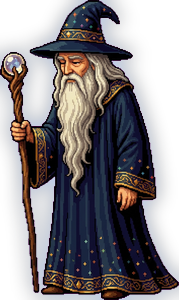
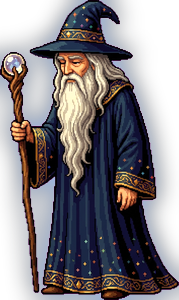
Deel 2: zwaard/raaf-bugfix, hemelschijf op het zonnestelsel (moeilijker), tekens op het boek, boek geeft onzichtbaarheid, duidelijker trip-effect
Binnenplaats (bugfix):
- Alle combinaties zwaard x raaf als bgVariants: munt aan de raaf geven laat het gesmede
  zwaard NIET meer verdwijnen (raven-sword.jpg), en na het inleveren bij de schildknaap
  is het tentoongestelde zwaard ook zichtbaar terwijl de raaf in de emmer zit

Bibliotheek — nieuwe flow:
- De HEMELSCHIJF zit nu op het ZONNESTELSEL op de sokkel (nieuwe orrery-hotspot), niet
  meer op het boek; moeilijker: 10 posities en GEKOPPELDE ringen (zon sleept maan mee,
  maan sleept ster mee) + na het oplossen zie je een spreuk-pagina met tekens en
  'Umbra Solis' (spell-eclipse-page.jpg)
- Tijdens de zonsverduistering gloeien de drie blauwe tekens nu OOK op het boek in de
  achtergrond (in scene-library-night.jpg gebakken)
- Het boek is een puzzel op zichzelf (signsBook): los de tekens-puzzel op en je krijgt
  de ONZICHTBAARHEIDSSPREUK direct uit het boek
- Het sterren-altaar opent daarna alleen nog de geheime deur (geen dubbele spreuk)
- De raaf hint elke stap: paddenstoelen -> zonnestelsel -> raam -> boek -> altaar -> kerker

Tovenaar-trip duidelijker:
- Sterkere blauwe aura in de trance-frames + pulserende halo en 8 zwevende twinkels
  (engine), en iets meer waggelen (aweSwayMul 2.0 -> 3.0)

Engine: signsBook-dispatch, symbolPuzzle met array-setFlag (ook altaar-done-check gefixt),
eclipsePuzzle linked + solvedZoom. Quests herschikt op de nieuwe volgorde. Cache deel2 v138.

diff --git a/games/ravenholt-deel2/js/data.js b/games/ravenholt-deel2/js/data.js
@@ -14,7 +14,7 @@ const GAME = {
   title:      { nl: 'Fluisteringen van Ravenholt — Deel 2', en: 'Whispers of Ravenholt — Part 2' },
   titleLines: { nl: ['Fluisteringen', 'van Ravenholt', '· Deel 2 ·'], en: ['Whispers of', 'Ravenholt', '· Part 2 ·'] },
   startScene: 'courtyard',
-  assetVer: '137',
+  assetVer: '138',
 
   /* Finn — vaste figuur: roodharige jongen, blauwe kapmantel, leren tas, houten staf.
      idle = hero, lopen = 4-frame loopsheet (heroWalkSheet), zwaaien = heroWave.
@@ -129,11 +129,11 @@ const GAME = {
     q_usekey:   { nl: 'Gebruik de sleutel op het slot onder de leeuwenkop van de fontein om de geheime poort te openen', en: 'Use the key on the lock beneath the fountain’s lion head to open the secret gate' },
     q_through:  { nl: 'De geheime poort staat open naast de leeuwenfontein — stap erdoorheen, de donkere gang in', en: 'The secret gate stands open beside the lion fountain — step through it, into the dark passage' },
     q_library:  { nl: 'Door de geheime poort kom je in de kasteelbibliotheek. Een oude tovenaar bewaakt het gloeiende boek — de raaf op de vensterbank weet vast raad (psst: hij fluistert iets over paddenstoelen bij de put)', en: 'Through the secret gate you reach the castle library. An old wizard guards the glowing book — the raven on the windowsill surely knows a trick (psst: he whispers something about mushrooms by the well)' },
-    q_takespell:{ nl: 'De tovenaar zweeft in hogere sferen — kijk nu in het gloeiende boek op de lessenaar: daar wacht de Zonsverduistering-spreuk', en: 'The wizard floats among the stars — look in the glowing book on the lectern: the Solar Eclipse spell awaits' },
+    q_takespell:{ nl: 'De tovenaar zweeft in hogere sferen — bekijk het ZONNESTELSEL op de sokkel rechts en draai de hemelschijf: daar wacht de Zonsverduistering-spreuk', en: 'The wizard floats among the stars — examine the SOLAR SYSTEM on the pedestal to the right and turn the celestial disc: the Solar Eclipse spell awaits' },
     q_castEclipse:{ nl: 'Je hebt de Zonsverduistering-spreuk! Tik hem aan in je tas en spreek hem uit bij het grote raam van de bibliotheek', en: 'You have the Solar Eclipse spell! Tap it in your bag and speak it at the great library window' },
     q_telescope:{ nl: 'De zon is verduisterd en de sterren fonkelen — kijk snel door de telescoop bij het raam!', en: 'The sun is darkened and the stars sparkle — quick, look through the telescope by the window!' },
-    q_readbook: { nl: 'De zon is verduisterd! Alléén nu kun je het gloeiende boek lezen — tik het aan en bekijk de drie blauwe geheime tekens van de onzichtbaarheidsspreuk', en: 'The sun is eclipsed! Only now can you read the glowing book — tap it and study the three blue secret signs of the invisibility spell' },
-    q_altar:    { nl: 'Je zag drie blauwe tekens in het boek: Ψ ♃ ♄. Zet ze op het sterren-altaar rechts in de bibliotheek — elk teken in het gouden vakje — en trek aan de hendel', en: 'You saw three blue signs in the book: Ψ ♃ ♄. Set them on the star altar at the right of the library — each sign in its golden box — and pull the lever' },
+    q_readbook: { nl: 'De zon is verduisterd — er gloeien blauwe tekens op het boek! Alléén nu kun je het lezen: tik het aan en los de tekens-puzzel op voor de ONZICHTBAARHEIDSSPREUK', en: 'The sun is eclipsed — blue signs glow on the book! Only now can you read it: tap it and solve the signs puzzle for the INVISIBILITY SPELL' },
+    q_altar:    { nl: 'De onzichtbaarheidsspreuk is binnen! Open nu de geheime deur: zet de drie blauwe tekens Ψ ♃ ♄ op het sterren-altaar — elk in het gouden vakje — en trek aan de hendel', en: 'The invisibility spell is yours! Now open the secret door: set the three blue signs Ψ ♃ ♄ on the star altar — each in its golden box — and pull the lever' },
     q_dungeon:  { nl: 'De geheime deur staat open! Daal de trap af naar de kerker. Een wachter verspert de weg naar de gevangene — tik de onzichtbaarheidsspreuk aan om ongezien langs hem te sluipen', en: 'The secret door is open! Descend the stair to the dungeon. A guard blocks the way to the prisoner — tap the invisibility spell to slip past him unseen' },
     q_freefather:{ nl: 'Je bent onzichtbaar langs de wachter! Praat met de gevangene bij de tralies — hij fluistert de volgorde van het kerkerslot: zon, maan, ster... en het teken van zijn staf', en: 'You slipped past the guard unseen! Talk to the prisoner at the bars — he whispers the order of the dungeon lock: sun, moon, star... and the sign of his staff' },
     q_done:     { nl: 'De prinses herkende het wapen van het medaillon... (wordt vervolgd in Deel 2)', en: 'The princess recognised the medallion’s crest... (to be continued in Part 2)' },
@@ -153,7 +153,7 @@ const GAME = {
     staff: { name: { nl: 'Vaders Staf', en: 'Father’s Staff' }, icon: '🪄', img: 'assets/art/item-staff.png',
              look: { nl: 'De houten staf van mijn vader. Hij voelt vertrouwd in je hand — met de juiste spreuk in je boek kun je hem laten werken.', en: 'My father’s wooden staff. It feels familiar in your hand — with the right spell in your book you can make it work.' } },
     invisspell: { name: { nl: 'Onzichtbaarheidsspreuk', en: 'Invisibility Spell' }, icon: '👻', img: 'assets/art/item-invisspell.png', sparkle: true, border: 'blue',
-             look: { nl: 'De onzichtbaarheidsspreuk uit het sterren-altaar in de kasteelbibliotheek. De letters lijken weg te vagen terwijl je kijkt — wie weet welke deuren dit in Deel 3 opent...', en: 'The invisibility spell from the star altar in the castle library. Its letters seem to fade away as you watch — who knows what doors this opens in Part 3...' } },
+             look: { nl: 'De onzichtbaarheidsspreuk uit het gloeiende boek — gelezen bij het licht van de zonsverduistering. De letters lijken weg te vagen terwijl je kijkt... Spreek hem uit waar een bewaker je níet mag zien. (Tik de spreuk aan om hem uit te spreken.)', en: 'The invisibility spell from the glowing book — read by the light of the solar eclipse. Its letters seem to fade away as you watch... Speak it where a guard must not see you. (Tap the spell to cast it.)' } },
     eclipsspell: { name: { nl: 'Zonsverduistering-spreuk', en: 'Solar Eclipse Spell' }, icon: '🌑', img: 'assets/art/item-eclipsspell.png', border: 'blue',
              look: { nl: 'De Spreuk van de Zonsverduistering — “Umbra Solis” — uit het gloeiende boek. Spreek hem uit bij het grote raam van de bibliotheek en de zon dooft, zodat de sterren zich overdag tonen. (Tik de spreuk aan om hem uit te spreken.)', en: 'The Spell of the Solar Eclipse — “Umbra Solis” — from the glowing book. Speak it at the great library window and the sun goes dark, so the stars show themselves by day. (Tap the spell to cast it.)' } },
     hammer: { name: { nl: 'Smidshamer', en: 'Blacksmith’s Hammer' }, icon: '🔨', img: 'assets/art/item-hammer.png',
@@ -256,9 +256,9 @@ const GAME = {
 
   questRules: [
     { when: { flag: 'guardPassed', notFlag: 'fatherFreed' },             quest: 'q_freefather' },    // onzichtbaar langs de wachter -> open het kerkerslot bij de cel
-    { when: { flag: 'gotInvisSpell', notFlag: 'fatherFreed' },           quest: 'q_dungeon' },       // spreuk + open deur -> daal af in de kerker en word onzichtbaar langs de wachter
-    { when: { flag: 'sawSigns', notFlag: 'gotInvisSpell' },              quest: 'q_altar' },         // blauwe tekens gezien -> zet ze op het sterren-altaar
-    { when: { flag: 'eclipseActive', notFlag: 'sawSigns' },              quest: 'q_readbook' },      // eclips actief -> lees nu de blauwe tekens in het gloeiende boek
+    { when: { flag: 'altarSolved', notFlag: 'fatherFreed' },             quest: 'q_dungeon' },       // geheime deur open -> daal af in de kerker en word onzichtbaar langs de wachter
+    { when: { flag: 'gotInvisSpell', notFlag: 'altarSolved' },           quest: 'q_altar' },         // spreuk binnen -> open de geheime deur met de drie tekens + hendel
+    { when: { flag: 'eclipseActive', notFlag: 'gotInvisSpell' },         quest: 'q_readbook' },      // eclips actief -> los de tekens-puzzel in het gloeiende boek op
     { when: { flag: 'gotEclipseSpell', notFlag: 'eclipseActive' },       quest: 'q_castEclipse' },   // spreuk binnen -> spreek hem uit
     { when: { flag: 'wizardTripping', notFlag: 'gotEclipseSpell' },      quest: 'q_takespell' },     // tovenaar in trance -> kijk in het gloeiende boek
     { when: { flag: 'secretGateOpen', notFlag: 'gotInvisSpell' },        quest: 'q_library' },       // poort open -> de bibliotheek in, geef de tovenaar de paddenstoelen
@@ -294,10 +294,14 @@ const GAME = {
       name: { nl: 'De Binnenplaats', en: 'The Courtyard' },
       bg: 'assets/art/scene-courtyard.jpg',
       bgVariants: [
-        // eerste passende wint
-        { img: 'assets/art/scene-courtyard-raven-swordgone.jpg', flags: ['ravenInBucket'], notFlags: ['gotNecklace'] },  // raaf in de put -> lege rek
-        { img: 'assets/art/scene-courtyard-sword.jpg',           flags: ['squireGaveRope'] },                            // zwaard ingeleverd bij de schildknaap -> tentoongesteld
-        { img: 'assets/art/scene-courtyard-swordgone.jpg',       flags: ['squireGaveSword'] }                            // gebroken zwaard gekregen -> rek leeg (smeden verandert dit niet)
+        // eerste passende wint — het zwaard-op-de-standaard en de raaf-in-de-emmer zijn onafhankelijke toestanden, dus alle combinaties:
+        { img: 'assets/art/scene-courtyard-raven-sword.jpg',     flags: ['ravenInBucket', 'squireGaveRope'],  notFlags: ['gotNecklace'] },              // raaf in de emmer + zwaard ingeleverd -> tentoongesteld
+        { img: 'assets/art/scene-courtyard-raven-sword.jpg',     flags: ['ravenInBucket', 'swordForged'],     notFlags: ['gotNecklace', 'gotSword'] },   // raaf in de emmer + gesmeed zwaard wacht bij de tent (nog niet gepakt!)
+        { img: 'assets/art/scene-courtyard-raven-swordgone.jpg', flags: ['ravenInBucket', 'squireGaveSword'], notFlags: ['gotNecklace'] },              // raaf in de emmer + zwaard in je tas -> lege standaard
+        { img: 'assets/art/scene-courtyard-raven.jpg',           flags: ['ravenInBucket'],                    notFlags: ['gotNecklace'] },              // raaf in de emmer, zwaard nog onaangeroerd
+        { img: 'assets/art/scene-courtyard-sword.jpg',           flags: ['squireGaveRope'] },                                                           // zwaard ingeleverd bij de schildknaap -> tentoongesteld
+        { img: 'assets/art/scene-courtyard-sword.jpg',           flags: ['swordForged'],                      notFlags: ['gotSword'] },                 // net gesmeed: het zwaard glanst bij de tent tot je het pakt
+        { img: 'assets/art/scene-courtyard-swordgone.jpg',       flags: ['squireGaveSword'] }                                                           // gebroken zwaard gekregen/onderweg -> standaard leeg
       ],
       charFilter: 'saturate(1.07) brightness(1.01) sepia(0.17) contrast(1.03)',   // warm gouden ochtendlicht zodat de figuren in de binnenplaats opgaan
       heroShade: 0.95,
@@ -796,7 +800,7 @@ const GAME = {
       overlays: [],
       fx: {},
       npcs: [
-        { id: 'librarian', sprite: 'librarian', x: 188, y: 260, scale: 0.86, sway: 0.014, aweSwayMul: 2.0, aweSwayMs: 1350, flip: true, filter: 'brightness(0.64) saturate(0.86)', aweSprites: ['librarian-trip1', 'librarian-trip2'], aweFlag: 'wizardTripping' },   // de pixel-tovenaar — donker, zachte wieg; onder hypnose een rustige, iets bredere schommel + zwevende twinkels (engine)
+        { id: 'librarian', sprite: 'librarian', x: 188, y: 260, scale: 0.86, sway: 0.014, aweSwayMul: 3.0, aweSwayMs: 1250, flip: true, filter: 'brightness(0.64) saturate(0.86)', aweSprites: ['librarian-trip1', 'librarian-trip2'], aweFlag: 'wizardTripping' },   // de pixel-tovenaar — donker; onder hypnose duidelijk waggelen + halo en twinkels (engine)
         { id: 'libRaven', sprite: 'ravenPerch', x: 366, y: 155, scale: 1.02, flip: false, peck: true, peckAmt: 0.3 }                               // de raaf op de vensterbank — flink groter, 5px lager
       ],
       worldItems: [],
@@ -823,17 +827,17 @@ const GAME = {
           name: { nl: 'De Raaf', en: 'The Raven' },
           rect: { x: 338, y: 118, w: 42, h: 58 },
           walkTo: { x: 344, y: 252 },
-          look: (state) => state.flags.gotInvisSpell
-            ? { nl: '\u201CKrra! Goed gedaan, kleine tovenaar. De sterren vergeten jou niet.\u201D De raaf buigt plechtig zijn kopje.', en: '\u201CCaw! Well done, little wizard. The stars will not forget you.\u201D The raven bows his head solemnly.' }
-            : state.flags.sawSigns
-            ? { nl: '\u201CKrra! Je z\u00E1g ze \u2014 de drie blauwe tekens in het boek! Zet ze op het sterren-altaar daar rechts, alle drie in het gouden vakje, en trek aan de hendel.\u201D', en: '\u201CCaw! You SAW them \u2014 the three blue signs in the book! Set them on the star altar to the right, all three in the golden box, and pull the lever.\u201D' }
+          look: (state) => state.flags.altarSolved
+            ? { nl: '\u201CKrra! De geheime deur staat open \u2014 de trap af, de kerker in! En onthoud: wat een wachter niet z\u00EDet, kan hij niet tegenhouden...\u201D', en: '\u201CCaw! The secret door stands open \u2014 down the stairs, into the dungeon! And remember: what a guard cannot SEE, he cannot stop...\u201D' }
+            : state.flags.gotInvisSpell
+            ? { nl: '\u201CKrra! De onzichtbaarheidsspreuk is van jou! Zet nu de drie blauwe tekens op het sterren-altaar daar rechts \u2014 elk in het gouden vakje \u2014 en trek aan de hendel: dan zwaait de geheime deur open.\u201D', en: '\u201CCaw! The invisibility spell is yours! Now set the three blue signs on the star altar to the right \u2014 each in its golden box \u2014 and pull the lever: the secret door will swing open.\u201D' }
             : state.flags.eclipseActive
-            ? { nl: '\u201CKrra! De zon is gedoofd \u2014 lees N\u00DA het gloeiende boek, voordat het licht terugkeert! De blauwe tekens tonen zich alleen in het donker.\u201D', en: '\u201CCaw! The sun is dark \u2014 read the glowing book NOW, before the light returns! The blue signs only show in the dark.\u201D' }
+            ? { nl: '\u201CKrra! De zon is gedoofd \u2014 kijk, er gloeien blauwe tekens op het gloeiende boek! Lees het N\u00DA en los de tekens-puzzel op, voordat het licht terugkeert.\u201D', en: '\u201CCaw! The sun is dark \u2014 look, blue signs glow on the glowing book! Read it NOW and solve the signs puzzle, before the light returns.\u201D' }
             : state.flags.gotEclipseSpell
-            ? { nl: '\u201CKrra! Je hebt de spreuk! Tik hem aan in je tas en spreek hem uit \u2014 dan dooft de zon en tonen de sterren zich.\u201D', en: '\u201CCaw! You have the spell! Tap it in your bag and speak it \u2014 the sun will darken and the stars will show themselves.\u201D' }
+            ? { nl: '\u201CKrra! Je hebt de spreuk! Tik hem aan in je tas en spreek hem uit \u2014 dan dooft de zon en tonen de geheime tekens zich in het boek.\u201D', en: '\u201CCaw! You have the spell! Tap it in your bag and speak it \u2014 the sun will darken and the secret signs will show in the book.\u201D' }
             : state.flags.wizardTripping
-            ? { nl: '\u201CKrra! Moet je hem zien zweven... Sn\u00E9l, kijk nu in het gloeiende boek \u2014 de spreuk van de zonsverduistering wacht op je!\u201D', en: '\u201CCaw! Look at him float... Quick, look in the glowing book now \u2014 the eclipse spell awaits you!\u201D' }
-            : { nl: 'De raaf zit parmantig op de vensterbank. \u201CKrra! Die oude tovenaar wijkt geen duimbreed van dat boek... Maar ik weet w\u00E1t hij niet kan weerstaan: paddenstoelen! Van die glimmende, bij de oude put op de binnenplaats.\u201D', en: 'The raven perches proudly on the windowsill. \u201CCaw! That old wizard will not budge an inch from that book... But I know what he cannot resist: mushrooms! The shiny kind, by the old well in the courtyard.\u201D' }
+            ? { nl: '\u201CKrra! Moet je hem zien zweven... Sn\u00E9l \u2014 kijk naar het ZONNESTELSEL op de sokkel rechts! Draai de hemelschijf tot zon, maan en ster op \u00E9\u00E9n lijn staan \u2014 d\u00E1\u00E1r zit de zonsverduistering-spreuk in.\u201D', en: '\u201CCaw! Look at him float... Quick \u2014 look at the SOLAR SYSTEM on the pedestal to the right! Turn the celestial disc until sun, moon and star line up \u2014 that is where the eclipse spell hides.\u201D' }
+            : { nl: 'De raaf zit parmantig op de vensterbank. \u201CKrra! Die oude tovenaar wijkt geen duimbreed van zijn instrumenten... Maar ik weet w\u00E1t hij niet kan weerstaan: paddenstoelen! Van die glimmende, bij de oude put op de binnenplaats.\u201D', en: 'The raven perches proudly on the windowsill. \u201CCaw! That old wizard will not budge an inch from his instruments... But I know what he cannot resist: mushrooms! The shiny kind, by the old well in the courtyard.\u201D' }
         },
         {
           id: 'shelves',
@@ -863,53 +867,68 @@ const GAME = {
           name: { nl: 'Het Gloeiende Boek', en: 'The Glowing Book' },
           rect: { x: 228, y: 122, w: 92, h: 94 },
           walkTo: { x: 300, y: 256 },
-          look: (state) => (state.flags.gotEclipseSpell && state.flags.sawSigns)
-            ? { nl: 'In het boek gloeien drie blauwe tekens na: \u03a8 \u2643 \u2644. Precies die drie moeten op het sterren-altaar rechts.', en: 'Three blue signs glow in the book: \u03a8 \u2643 \u2644. Those three belong on the star altar to the right.' }
+          look: (state) => state.flags.gotInvisSpell
+            ? { nl: 'In het boek gloeien de drie blauwe tekens na: \u03a8 \u2643 \u2644. Precies die drie moeten op het sterren-altaar rechts \u2014 trek daarna aan de hendel.', en: 'Three blue signs glow in the book: \u03a8 \u2643 \u2644. Those three belong on the star altar to the right \u2014 then pull the lever.' }
             : (state.flags.gotEclipseSpell && state.flags.eclipseActive)
-            ? { nl: 'Nu de zon verduisterd is, lichten er blauwe geheime tekens op tussen de bladzijden \u2014 de sleutel tot de onzichtbaarheidsspreuk. Lees ze!', en: 'Now that the sun is darkened, blue secret signs light up between the pages \u2014 the key to the invisibility spell. Read them!' }
+            ? { nl: 'Nu de zon verduisterd is, gloeien er blauwe geheime tekens op de bladzijden \u2014 de sleutel tot de ONZICHTBAARHEIDSSPREUK. Lees het boek en los de tekens-puzzel op!', en: 'Now that the sun is darkened, blue secret signs glow on the pages \u2014 the key to the INVISIBILITY SPELL. Read the book and solve the signs puzzle!' }
             : state.flags.gotEclipseSpell
-            ? { nl: 'Het grote boek is uitgedoofd. Bij gewoon daglicht zie je alleen vage krabbels \u2014 maar toen de zon verduisterde, leken er tekens op te gloeien... Verduister de zon opnieuw om ze te lezen.', en: 'The great book has gone dark. In plain daylight you see only faint scribbles \u2014 but when the sun was eclipsed, signs seemed to glow... Darken the sun again to read them.' }
+            ? { nl: 'Bij daglicht toont het grote boek alleen vage krabbels \u2014 maar bij een zonsverduistering gloeien er tekens op... Spreek de zonsverduistering-spreuk uit bij het raam en lees d\u00e1n het boek.', en: 'In daylight the great book shows only faint scribbles \u2014 but during a solar eclipse signs glow up... Cast the eclipse spell at the window, then read the book.' }
             : state.flags.wizardTripping
-            ? { nl: 'Het boek slaat vanzelf open bij een pagina vol sterren: de Spreuk van de Zonsverduistering! Pak hem nu de tovenaar in hogere sferen is.', en: 'The book falls open at a page full of stars: the Spell of the Solar Eclipse! Take it while the wizard is away with the stars.' }
+            ? { nl: 'Het boek gloeit zacht, maar de bladzijden tonen enkel vreemde krabbels. In de kantlijn staat een kleine tekening: het ZONNESTELSEL op de sokkel, met draaiende ringen eromheen... Bekijk dat zonnestelsel eens!', en: 'The book glows softly, but its pages show only strange scribbles. In the margin sits a small drawing: the SOLAR SYSTEM on the pedestal, with turning rings around it... Take a look at that solar system!' }
             : { nl: 'Een groot boek op de lessenaar gloeit zacht. De tovenaar houdt het scherp in de gaten \u2014 je durft het niet aan te raken.', en: 'A great book on the lectern glows softly. The wizard watches it sharply \u2014 you dare not touch it.' },
+          signsBook: {                                     // HET BOEK IS ZELF EEN PUZZEL: alleen leesbaar bij verduistering; oplossen = de onzichtbaarheidsspreuk
+            requiresFlag: 'gotEclipseSpell',
+            blockedText: (state) => state.flags.wizardTripping
+              ? { nl: 'Je bladert door het boek: vreemde krabbels, en \u00e9\u00e9n tekeningetje van het zonnestelsel op de sokkel met draaiende ringen. D\u00e1\u00e1r moet je zijn \u2014 bekijk het zonnestelsel!', en: 'You leaf through the book: strange scribbles, and one little drawing of the solar system on the pedestal with turning rings. That is where to go \u2014 look at the solar system!' }
+              : { nl: '\u201cNiemand raakt de sterrenspreuken aan!\u201d snauwt de tovenaar. Zolang hij erbij is, kom je niet bij het boek. (De raaf fluistert: \u201cKrra... paddenstoelen, bij de put!\u201d)', en: '\u201cNo one touches the star spells!\u201d snaps the wizard. While he is watching you cannot reach the book. (The raven whispers: \u201cCaw... mushrooms, by the well!\u201d)' },
+            eclipseFlag: 'eclipseActive',
+            dayText: { nl: 'Bij daglicht zie je alleen vage krabbels. Toen de zon verduisterd was, gloeiden er blauwe tekens op het boek... Spreek de zonsverduistering-spreuk uit bij het raam en lees d\u00e1n het boek.', en: 'In daylight you see only faint scribbles. When the sun was eclipsed, blue signs glowed on the book... Cast the eclipse spell at the window, then read the book.' },
+            zoomImg: 'assets/art/book-signs.jpg',          // na de puzzel: opnieuw tikken toont de drie tekens nog eens rustig
+            puzzle: {                                      // DE TEKENS-PUZZEL: zes tekens, alleen de drie blauw gloeiende horen bij de spreuk
+              img: 'assets/art/puzzle-booksigns.jpg',
+              title: { nl: 'De Geheime Tekens', en: 'The Secret Signs' },
+              hint: { nl: 'Zes tekens op de pagina \u2014 maar alleen DRIE gloeien blauw. Tik de gloeiende tekens aan van FEL naar ZWAK; de vale tekens horen er niet bij!', en: 'Six signs on the page \u2014 but only THREE glow blue. Tap the glowing signs from BRIGHT to FAINT; the pale signs do not belong!' },
+              zones: [
+                { key: 'omega', left: 10, top: 27, width: 20, height: 26 },
+                { key: 'psi',   left: 40, top: 25, width: 20, height: 26 },
+                { key: 'delta', left: 70, top: 27, width: 20, height: 26 },
+                { key: 'sat',   left: 10, top: 61, width: 20, height: 26 },
+                { key: 'phi',   left: 40, top: 63, width: 20, height: 26 },
+                { key: 'jup',   left: 70, top: 61, width: 20, height: 26 }
+              ],
+              sequence: ['psi', 'jup', 'sat'],
+              resetText: { nl: 'Het teken dooft meteen... dat hoorde er niet bij, of de volgorde klopte niet. Begin opnieuw: van fel naar zwak!', en: 'The sign fades at once... it did not belong, or the order was wrong. Start over: bright to faint!' },
+              setFlag: ['sawSigns', 'gotInvisSpell'],
+              give: 'invisspell',
+              solvedText: { nl: 'De drie tekens vlammen zilverblauw op \u2014 \u03a8 \u2643 \u2644 \u2014 en een zilveren bladzijde schrijft zich over in jouw toverboek: de SPREUK VAN ONZICHTBAARHEID! Onthoud de drie tekens goed: zet ze op het sterren-altaar rechts en trek aan de hendel om de geheime deur te openen.', en: 'The three signs blaze silver-blue \u2014 \u03a8 \u2643 \u2644 \u2014 and a silver page writes itself into your spellbook: the SPELL OF INVISIBILITY! Remember the three signs well: set them on the star altar to the right and pull the lever to open the secret door.' }
+            }
+          }
+        },
+        {
+          id: 'orrery',
+          name: { nl: 'Het Zonnestelsel', en: 'The Solar System' },
+          rect: { x: 436, y: 126, w: 100, h: 56 },
+          walkTo: { x: 404, y: 282 },
+          look: (state) => state.flags.gotEclipseSpell
+            ? { nl: 'Het koperen zonnestelsel rust weer; de ringen staan op \u00e9\u00e9n lijn. De zonsverduistering-spreuk staat in je toverboek.', en: 'The brass solar system rests again; its rings stand aligned. The eclipse spell is in your spellbook.' }
+            : { nl: 'Een prachtig koperen zonnestelsel draait langzaam op de sokkel: een gloeiende zon met ringen van planeten en sterren eromheen. Er zit een draaimechaniek in...', en: 'A beautiful brass solar system slowly turns on the pedestal: a glowing sun with rings of planets and stars around it. There is a turning mechanism inside...' },
           eclipsePuzzle: {
             requiresFlag: 'wizardTripping',
-            blockedText: { nl: '\u201CNiemand raakt de sterrenspreuken aan!\u201D snauwt de tovenaar. Zolang hij erbij is, kom je niet bij het boek. (De raaf fluistert: \u201CKrra... paddenstoelen, bij de put!\u201D)', en: '\u201CNo one touches the star spells!\u201D snaps the wizard. While he is watching you cannot reach the book. (The raven whispers: \u201CCaw... mushrooms, by the well!\u201D)' },
-            positions: 8,
+            blockedText: { nl: '\u201cBlijf van mijn instrumenten af!\u201d snauwt de tovenaar zonder zelfs op te kijken. Zolang hij erbij is, mag je nergens aankomen. (De raaf fluistert: \u201cKrra... paddenstoelen, bij de put!\u201d)', en: '\u201cKeep your hands off my instruments!\u201d snaps the wizard without even looking up. While he is around you may touch nothing. (The raven whispers: \u201cCaw... mushrooms, by the well!\u201d)' },
+            positions: 10,
+            linked: true,
             title: { nl: 'De Hemelschijf', en: 'The Celestial Disc' },
-            hint: { nl: 'Het boek toont een draaibare hemelschijf met drie ringen: Zon \u2609, Maan \u263D en Ster \u2726. Draai elke ring (tik links of rechts) tot alle drie de tekens bovenaan onder de gouden wijzer staan en groen oplichten \u2014 zo lijn je zon, maan en aarde uit voor de verduistering.', en: 'The book shows a turnable celestial disc with three rings: Sun \u2609, Moon \u263D and Star \u2726. Turn each ring (tap left or right) until all three marks sit at the top under the golden pointer and glow green \u2014 aligning sun, moon and earth for the eclipse.' },
+            hint: { nl: 'Draai de drie ringen \u2014 Zon \u2609, Maan \u263d en Ster \u2726 \u2014 tot alle drie de tekens bovenaan onder de gouden wijzer staan. Maar pas op: de ringen zitten aan elkaar vast! De zonnering sleept de maanring mee, en de maanring de sterrenring. Alleen de binnenste draait vrij. (Tik links of rechts van een ring.)', en: 'Turn the three rings \u2014 Sun \u2609, Moon \u263d and Star \u2726 \u2014 until all three marks sit at the top under the golden pointer. But beware: the rings are linked! The sun ring drags the moon ring along, and the moon ring drags the star ring. Only the innermost turns free. (Tap left or right of a ring.)' },
             rings: [
-              { start: 3 },
-              { start: 6 },
-              { start: 2 }
+              { start: 4 },
+              { start: 7 },
+              { start: 3 }
             ],
             setFlag: 'gotEclipseSpell',
             give: 'eclipsspell',
-            afterSigns: {                                  // ná de eclips-spreuk: het boek is alléén bij verduistering te lezen — dan wacht de tekens-puzzel
-              eclipseFlag: 'eclipseActive',
-              setFlag: 'sawSigns',
-              zoomImg: 'assets/art/book-signs.jpg',        // na de puzzel: opnieuw tikken toont de drie tekens nog eens rustig
-              dayText: { nl: 'Je bladert het gloeiende boek open, maar in het felle daglicht zie je alleen vage krabbels. Toen de zon verduisterd was, gloeiden er tekens op... Spreek de zonsverduistering-spreuk opnieuw uit bij het raam en lees dán het boek.', en: 'You leaf through the glowing book, but in the bright daylight you see only faint scribbles. When the sun was eclipsed, signs glowed up... Cast the eclipse spell again at the window and read the book then.' },
-              puzzle: {                                    // DE TEKENS-PUZZEL: zes tekens op de pagina, maar alleen de drie blauw gloeiende horen bij de spreuk
-                img: 'assets/art/puzzle-booksigns.jpg',
-                title: { nl: 'De Geheime Tekens', en: 'The Secret Signs' },
-                hint: { nl: 'Zes tekens op de pagina — maar alleen DRIE gloeien blauw. Tik de gloeiende tekens aan van FEL naar ZWAK; de vale tekens horen er niet bij!', en: 'Six signs on the page — but only THREE glow blue. Tap the glowing signs from BRIGHT to FAINT; the pale signs do not belong!' },
-                zones: [
-                  { key: 'omega', left: 10, top: 27, width: 20, height: 26 },
-                  { key: 'psi',   left: 40, top: 25, width: 20, height: 26 },
-                  { key: 'delta', left: 70, top: 27, width: 20, height: 26 },
-                  { key: 'sat',   left: 10, top: 61, width: 20, height: 26 },
-                  { key: 'phi',   left: 40, top: 63, width: 20, height: 26 },
-                  { key: 'jup',   left: 70, top: 61, width: 20, height: 26 }
-                ],
-                sequence: ['psi', 'jup', 'sat'],
-                resetText: { nl: 'Het teken dooft meteen... dat hoorde er niet bij, of de volgorde klopte niet. Begin opnieuw: van fel naar zwak!', en: 'The sign fades at once... it did not belong, or the order was wrong. Start over: bright to faint!' },
-                setFlag: 'sawSigns',
-                solvedText: { nl: 'De drie tekens vlammen zilverblauw op en zweven even boven de bladzijde: Ψ ♃ ♄! Dit zijn de tekens van de ONZICHTBAARHEID — zet ze precies zo op het sterren-altaar rechts en trek aan de hendel.', en: 'The three signs blaze silver-blue and hover above the page: Ψ ♃ ♄! These are the signs of INVISIBILITY — set them just so on the star altar to the right and pull the lever.' }
-              }
-            },
-            solvedText: { nl: 'De drie ringen klikken op \u00E9\u00E9n lijn \u2014 de maan schuift langzaam v\u00F3\u00F3r de zon en een gloeiende corona vlamt op. Op de bladzijde schrijft de ZONSVERDUISTERING-SPREUK, \u201CUmbra Solis\u201D, zich in zilveren letters over in jouw toverboek! (Tik de spreuk aan in je tas om hem uit te spreken bij het grote raam.)', en: 'The three rings click into one line \u2014 the moon slides slowly across the sun and a glowing corona flares. On the page the SOLAR ECLIPSE SPELL, \u201CUmbra Solis\u201D, writes itself in silver letters into your spellbook! (Tap the spell in your bag to cast it at the great window.)' },
-            doneText: { nl: 'Het boek is uitgedoofd; de zonsverduistering-spreuk staat al in jouw toverboek.', en: 'The book has gone dark; the eclipse spell is already in your spellbook.' }
+            solvedZoom: 'assets/art/spell-eclipse-page.jpg',
+            solvedText: { nl: 'De drie ringen klikken op \u00e9\u00e9n lijn \u2014 de maan schuift langzaam v\u00f3\u00f3r de zon en een gloeiende corona vlamt op! Boven het zonnestelsel verschijnen tekens en zilveren letters: \u201cUmbra Solis\u201d \u2014 de ZONSVERDUISTERING-SPREUK schrijft zich in je toverboek! (Tik de spreuk aan in je tas om hem uit te spreken bij het grote raam.)', en: 'The three rings click into one line \u2014 the moon slides slowly across the sun and a glowing corona flares! Above the solar system, signs and silver letters appear: \u201cUmbra Solis\u201d \u2014 the SOLAR ECLIPSE SPELL writes itself into your spellbook! (Tap the spell in your bag to cast it at the great window.)' },
+            doneText: { nl: 'Het zonnestelsel rust; de zonsverduistering-spreuk staat al in jouw toverboek.', en: 'The solar system rests; the eclipse spell is already in your spellbook.' }
           }
         },
         {
@@ -926,14 +945,14 @@ const GAME = {
         {
           id: 'altar',
           name: { nl: 'Het Sterren-Altaar', en: 'The Star Altar' },
-          rect: { x: 418, y: 170, w: 114, h: 106 },
+          rect: { x: 418, y: 186, w: 114, h: 90 },
           walkTo: { x: 404, y: 282 },
-          look: (state) => state.flags.gotInvisSpell
+          look: (state) => state.flags.altarSolved
             ? { nl: 'Het altaar rust weer. De drie sterren-tekens gloeien zachtjes na in het steen.', en: 'The altar rests again. The three star signs glow faintly in the stone.' }
             : { nl: 'Een stenen altaar met drie schuifrijen vol vreemde tekens, en rechts drie gouden vakjes onder elkaar. Welke drie tekens horen daar? De sterren weten het antwoord...', en: 'A stone altar with three sliding rows of strange signs, and three golden boxes on the right. Which three signs belong there? The stars know the answer...' },
           starPuzzle: {
             requiresFlag: 'sawSigns',
-            blockedText: { nl: 'Drie rijen schuivende tekens en drie gouden vakjes... maar welke tekens horen erin? Je hebt geen idee \u2014 lees eerst de blauwe tekens in het gloeiende boek (dat lukt alleen bij een zonsverduistering).', en: 'Three rows of sliding signs and three golden boxes... but which signs belong there? You have no idea \u2014 first read the blue signs in the glowing book (only possible during a solar eclipse).' },
+            blockedText: { nl: 'Drie rijen schuivende tekens en drie gouden vakjes... maar welke tekens horen erin? Je hebt geen idee \u2014 los eerst de tekens-puzzel in het gloeiende boek op (dat lukt alleen bij een zonsverduistering).', en: 'Three rows of sliding signs and three golden boxes... but which signs belong there? You have no idea \u2014 first solve the signs puzzle in the glowing book (only possible during a solar eclipse).' },
             img: 'assets/art/puzzle-altar.jpg',
             manualCheck: true,
             title: { nl: 'Het Sterren-Altaar', en: 'The Star Altar' },
@@ -944,11 +963,10 @@ const GAME = {
               { symbols: ['\u2644', '\u0394', '\u03A9', '\u2643', '\u03A8'], start: 1 }
             ],
             targets: ['\u03A8', '\u2643', '\u2644'],
-            setFlag: ['altarSolved', 'gotInvisSpell'],
-            give: 'invisspell',
+            setFlag: ['altarSolved'],
             relight: { setFlag: 'libRelit', clearFlag: 'eclipseActive', delay: 2600, text: { nl: 'Achter het raam schuift de zwarte schijf weg van de zon. Het daglicht stroomt terug de zaal in \u2014 en in de muur, waar zojuist een boekenkast stond, gaapt nu een donkere doorgang naar beneden...', en: 'Behind the window the black disc slides off the sun. Daylight floods back into the hall \u2014 and in the wall, where a bookcase stood a moment ago, a dark passage now yawns downward...' } },
             wrongText: { nl: 'Je trekt aan de hendel... maar de tekens doven en het altaar bromt afkeurend. Nog niet juist \u2014 kijk nog eens goed naar de blauwe tekens in het boek en schuif de rijen bij.', en: 'You pull the lever... but the signs go dark and the altar grumbles. Not right yet \u2014 study the blue signs in the book again and adjust the rows.' },
-            solvedText: { nl: 'De drie sterren-tekens staan op \u00E9\u00E9n lijn en gloeien fel op! Met een diep, knarsend gerommel zwaait achter de boekenkast een geheime deur open \u2014 en op het altaar schrijft een zilveren bladzijde zich in je toverboek: de SPREUK VAN ONZICHTBAARHEID! Achter die deur voert een trap omlaag, de duisternis in...', en: 'The three star signs stand in one line and blaze with light! With a deep grinding rumble a secret door swings open behind the bookcase \u2014 and on the altar a silver page writes itself into your spellbook: the SPELL OF INVISIBILITY! Beyond the door a stair leads down, into the dark...' },
+            solvedText: { nl: 'De drie sterren-tekens staan op \u00E9\u00E9n lijn en gloeien fel op! Met een diep, knarsend gerommel zwaait achter de boekenkast een GEHEIME DEUR open. Daarachter voert een trap omlaag, de duisternis in \u2014 naar de kerker...', en: 'The three star signs stand in one line and blaze with light! With a deep grinding rumble a SECRET DOOR swings open behind the bookcase. Beyond it a stair leads down, into the dark \u2014 toward the dungeon...' },
             doneText: { nl: 'Het altaar rust; de tekens gloeien zachtjes na en de geheime deur staat open. Een trap voert omlaag, de kerker in.', en: 'The altar rests; the signs glow faintly and the secret door stands open. A stair leads down, into the dungeon.' }
           }
         }

diff --git a/games/ravenholt-deel2/js/engine.js b/games/ravenholt-deel2/js/engine.js
@@ -2547,12 +2547,21 @@
           const savedF = fctx.filter; fctx.filter = 'none';
           const spr2 = ready(img) ? img : null;
           const hh = (spr2 ? (spr2.naturalHeight || 300) : 300) * 0.5 * sc2 * 0.62;   // ± hoofd-hoogte
-          for (let i = 0; i < 5; i++) {
-            const sp = 2400 + i * 420;                                    // eigen tempo per ster
-            const tx = rt.x + Math.sin(now / sp + i * 1.9) * (20 + i * 4) * sc2;
-            const ty = rt.y - hh * 1.35 + Math.sin(now / (sp * 0.77) + i * 2.3) * 9 * sc2 - i * 5;
-            const a = 0.18 + 0.4 * (0.5 + 0.5 * Math.sin(now / 520 + i * 2.1));   // zacht in-/uitfaden
-            twinkle(tx, ty, a, '190,215,255');
+          /* zachte, pulserende blauwe halo rond het hoofd — maakt de trance meteen zichtbaar */
+          const hx = rt.x, hy = rt.y - hh * 1.4;
+          const hr = 34 * sc2 * (1 + 0.12 * Math.sin(now / 700));
+          const ha = 0.16 + 0.08 * Math.sin(now / 520);
+          const hg = fctx.createRadialGradient(hx, hy, 2, hx, hy, hr);
+          hg.addColorStop(0, 'rgba(150,190,255,' + ha.toFixed(3) + ')');
+          hg.addColorStop(1, 'rgba(150,190,255,0)');
+          fctx.fillStyle = hg;
+          fctx.fillRect(Math.round(hx - hr), Math.round(hy - hr), Math.round(hr * 2), Math.round(hr * 2));
+          for (let i = 0; i < 8; i++) {                                   // acht zwevende twinkels in eigen trage banen
+            const sp = 2200 + i * 380;
+            const tx = rt.x + Math.sin(now / sp + i * 1.9) * (18 + (i % 4) * 7) * sc2;
+            const ty = rt.y - hh * 1.3 + Math.sin(now / (sp * 0.77) + i * 2.3) * 11 * sc2 - (i % 5) * 6;
+            const a = 0.25 + 0.5 * (0.5 + 0.5 * Math.sin(now / 480 + i * 2.1));   // zacht in-/uitfaden, iets feller
+            twinkle(tx, ty, a, '195,220,255');
           }
           fctx.filter = savedF;
         }
@@ -3829,9 +3838,10 @@
      geef optioneel een voorwerp (pz.give) of verbruik er een (pz.consume). Volledig
      op de hotspot geconfigureerd (hs.symbolPuzzle), net als de boeken-puzzel. */
   let symHs = null, symProg = 0;
+  function symFlagDone(f) { return Array.isArray(f) ? f.every((k) => state.flags[k]) : state.flags[f]; }
   function openSymbolPuzzle(hs) {
     const pz = hs.symbolPuzzle;
-    if (state.flags[pz.setFlag]) { say(pz.doneText || lookText(hs), hsSpeaker(hs)); return; }
+    if (symFlagDone(pz.setFlag)) { say(pz.doneText || lookText(hs), hsSpeaker(hs)); return; }
     symHs = hs; symProg = 0;
     if (pz.img && elRuneImg) {                         // visuele aanwijzing: toon de afbeelding met de symbool-volgorde
       elRuneImg.src = pz.img + AV;
@@ -3883,7 +3893,7 @@
       symProg++;
       sfx('pickup');
       if (symProg >= pz.sequence.length) {
-        state.flags[pz.setFlag] = true;
+        (Array.isArray(pz.setFlag) ? pz.setFlag : [pz.setFlag]).forEach((f) => { state.flags[f] = true; });
         if (pz.consume) removeItem(pz.consume);
         if (pz.give) addItem(pz.give);
         const spSc = GAME.scenes[state.currentScene];          // achtergrond meteen verversen (bv. hamer uit het beeld -> tuin2)
@@ -4155,7 +4165,7 @@
 
   function openStarPuzzle(hs) {
     const pz = hs.starPuzzle;
-    if (state.flags[pz.setFlag]) { say(pz.doneText || lookText(hs), hsSpeaker(hs)); return; }
+    if (symFlagDone(pz.setFlag)) { say(pz.doneText || lookText(hs), hsSpeaker(hs)); return; }
     altarHs = hs; altSolved = false;
     altOff = pz.rows.map((r) => r.start || 0);
     if (!altBg) { altBg = new Image(); altBg.src = (pz.img || 'assets/art/puzzle-altar.jpg') + AV; }
@@ -4311,7 +4321,11 @@
   function eclShift(r, dir) {
     if (!eclHs || eclSolved) return;
     const N = eclHs.eclipsePuzzle.positions || 8;
-    eclOff[r] = (eclOff[r] + (dir > 0 ? 1 : N - 1)) % N;
+    const step = dir > 0 ? 1 : N - 1;
+    eclOff[r] = (eclOff[r] + step) % N;
+    /* Gekoppelde ringen (moeilijker): de zonnering sleept de maanring mee, en de
+       maanring sleept de sterrenring mee. Alleen de binnenste draait vrij. */
+    if (eclHs.eclipsePuzzle.linked && r < 2) eclOff[r + 1] = (eclOff[r + 1] + step) % N;
     sfx('tap');
     const pz = eclHs.eclipsePuzzle;
     const aligned = eclOff.every((o) => o === 0);
@@ -4326,7 +4340,12 @@
       sfx('combine');
       const h = eclHs;
       if (elEclStatus) elEclStatus.textContent = lang === 'nl' ? 'Uitgelijnd! De maan schuift voor de zon...' : 'Aligned! The moon slides across the sun...';
-      setTimeout(() => { eclipseClose(); if (pz.solvedText) say(pz.solvedText, hsSpeaker(h)); updateQuest(); }, 1600);
+      setTimeout(() => {
+        eclipseClose();
+        if (pz.solvedZoom) openZoom(pz.solvedZoom);         // toon de tekens + de spreuk 'Umbra Solis' op een eigen pagina
+        if (pz.solvedText) say(pz.solvedText, hsSpeaker(h));
+        updateQuest();
+      }, 1600);
     }
   }
   function eclLoop() {
@@ -5171,6 +5190,26 @@
         return;
       }
       openDialPuzzle(hs);
+      return;
+    }
+    /* Het gloeiende boek: pas leesbaar mét de eclips-spreuk en alléén tijdens de
+       zonsverduistering; dan wacht de tekens-puzzel die de onzichtbaarheidsspreuk geeft. */
+    if (hs.signsBook) {
+      const bs = hs.signsBook;
+      if (bs.requiresFlag && !state.flags[bs.requiresFlag]) {
+        sfx('error');
+        const bt = typeof bs.blockedText === 'function' ? bs.blockedText(state) : bs.blockedText;
+        say(bt || lookText(hs), hsSpeaker(hs)); return;
+      }
+      if (bs.eclipseFlag && !state.flags[bs.eclipseFlag]) {
+        sfx('error'); say(bs.dayText || lookText(hs), hsSpeaker(hs)); return;
+      }
+      if (bs.puzzle && !symFlagDone(bs.puzzle.setFlag)) {
+        openSymbolPuzzle(Object.assign({}, hs, { symbolPuzzle: bs.puzzle }));
+        return;
+      }
+      sfx('tap');
+      if (bs.zoomImg) openZoom(bs.zoomImg);                 // opnieuw lezen: toon de tekens-pagina als geheugensteun
       return;
     }
     if (hs.starPuzzle) {

diff --git a/games/ravenholt-deel2/index.html b/games/ravenholt-deel2/index.html
@@ -26,7 +26,7 @@
   <link rel="preconnect" href="https://fonts.googleapis.com">
   <link rel="preconnect" href="https://fonts.gstatic.com" crossorigin>
   <link href="https://fonts.googleapis.com/css2?family=Crimson+Pro:ital,wght@0,400;0,600;1,400&family=Pixelify+Sans:wght@400;600&display=swap" rel="stylesheet">
-  <link rel="stylesheet" href="css/style.css?v=137">
+  <link rel="stylesheet" href="css/style.css?v=138">
   <script type="application/ld+json">
   {
     "@context": "https://schema.org",
@@ -125,7 +125,7 @@
   </div>
 
   <div id="title-screen" class="overlay title">
-    <img class="title-bg" src="assets/art/title.jpg?v=137" alt="Whispers of Ravenholt" onerror="this.remove()">
+    <img class="title-bg" src="assets/art/title.jpg?v=138" alt="Whispers of Ravenholt" onerror="this.remove()">
     <div class="title-content">
       <h1 id="title-h1" hidden><span>Whispers of</span><br><span>Ravenholt</span></h1>
       <p id="title-sub" class="subtitle" hidden>Een point-and-click avontuur</p>
@@ -146,7 +146,7 @@
 
   <div id="win-screen" class="overlay" hidden>
     <div class="overlay-card panel">
-      <img class="win-banner" src="assets/art/win-deel2.jpg?v=137" alt="" onerror="this.remove()">
+      <img class="win-banner" src="assets/art/win-deel2.jpg?v=138" alt="" onerror="this.remove()">
       <h1 id="win-h1">Deel 1 uitgespeeld!</h1>
       <p class="intro" id="winText"></p>
       <button id="replayBtn" class="gold-btn">Opnieuw spelen</button>
@@ -296,10 +296,10 @@
     </div>
   </div>
 
-  <script src="js/sprites.js?v=137"></script>
-  <script src="js/scenes.js?v=137"></script>
-  <script src="js/data.js?v=137"></script>
-  <script src="js/engine.js?v=137"></script>
+  <script src="js/sprites.js?v=138"></script>
+  <script src="js/scenes.js?v=138"></script>
+  <script src="js/data.js?v=138"></script>
+  <script src="js/engine.js?v=138"></script>
   <script>
     if ('serviceWorker' in navigator) {
       window.addEventListener('load', () => {

diff --git a/games/ravenholt-deel2/sw.js b/games/ravenholt-deel2/sw.js
@@ -4,7 +4,7 @@
    offline beschikbaar wilt hebben (optioneel — niet-vermelde bestanden worden bij
    eerste gebruik alsnog gecachet). */
 
-const CACHE = 'ravenholt2-v137';
+const CACHE = 'ravenholt2-v138';
 
 const PRECACHE = [
   './',
